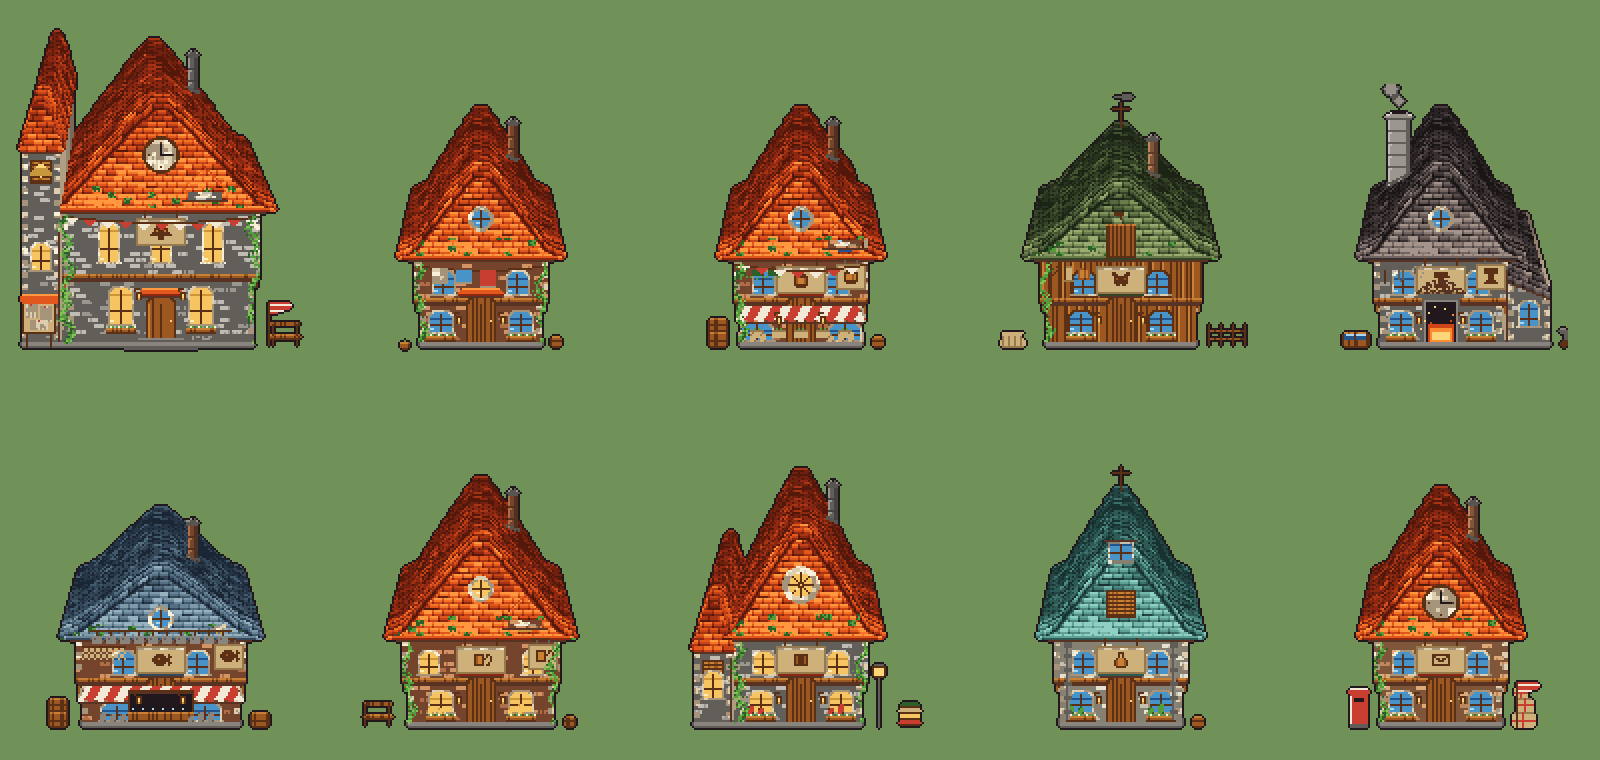
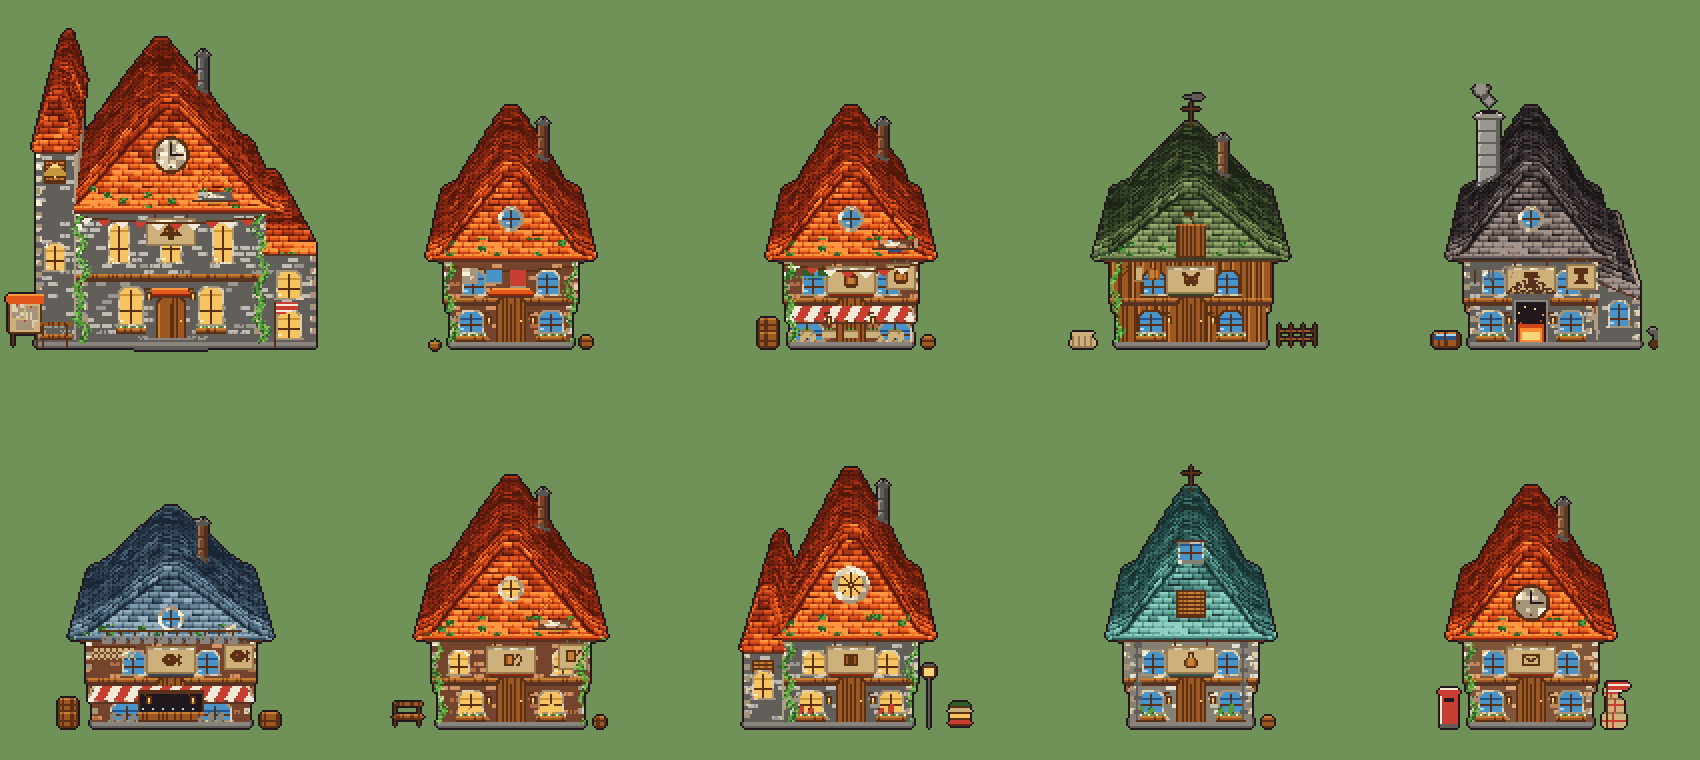
회관 오른쪽에도 한 칸 — 붙인 게 아니라 이어진 것으로
「그냥 붙인 느낌」은 세 가지에서 온다. 셋 다 지웠다:

  ① 이음매의 어두운 줄   붙는 자리에 그늘을 그었더니 오히려 「여기가 경계다」를
                        가리켰다. 안 긋는다 — 벽이 그냥 이어진다
  ② 겹친 귀돌            wall() 이 양끝에 귀돌을 넣어서 이음매에 밝은 줄이
                        두 개 겹쳤다. 붙는 쪽은 생략한다 (skip 인자)
  ③ 안 맞는 지붕 켜      덧붙인 지붕의 켜를 제 기준으로 세면 기와 줄이 어긋난다.
                        **본채 처마 기준**으로 세니 줄이 그대로 이어진다

톤도 roofToneAt(y) 하나로 통일했다 — 높이만 넣으면 본채 지붕이 쓰는 사다리의
그 자리 톤이 나온다. 곁채·탑·이어 나온 칸 전부 이걸 쓴다.

캔버스는 178x168 (712x672). 오른쪽에 칸이 붙으면서 여유가 없어졌다.

diff --git a/game/assets/ref/make_buildings.js b/game/assets/ref/make_buildings.js
@@ -641,12 +641,15 @@ function bargeBoard(g, x0, x1, top, base) {
 
 
 // 벽 — 벽돌이면 크림색 귀돌로 각을 잡고, 회벽이면 하프팀버 목재를 두른다.
-function wall(g, x0, x1, y0, y1, plinth) {
+// skip: 'left' | 'right' — 다른 덩어리와 **붙는 쪽**은 귀돌을 안 넣는다.
+// 양쪽 다 넣으면 이음매에 밝은 줄이 두 개 겹쳐서, 벽이 이어진 게 아니라
+// 두 채가 맞닿은 것으로 보인다.
+function wall(g, x0, x1, y0, y1, plinth, skip) {
   g.rect(x0, y0, x1, y1, WB);
   if (WALL === 'brick') {
     for (let y = y0 + 1; y < y1 - 3; y += 6) {             // 귀돌
-      g.rect(x0, y, x0 + 2, y + 2, 'w');
-      g.rect(x1 - 2, y, x1, y + 2, 'w');
+      if (skip !== 'left') g.rect(x0, y, x0 + 2, y + 2, 'w');
+      if (skip !== 'right') g.rect(x1 - 2, y, x1, y + 2, 'w');
     }
   } else if (WALL === 'plank') {
     // 널판 — 세로로 널을 대고 이음매마다 어두운 줄. 헛간의 벽이다
@@ -1206,6 +1209,13 @@ function noticeboard(g, x, y) {
 //
 // 그리고 본채는 옆에 붙은 것 위로 **그림자를 드리운다.** 낮은 곁채 지붕이
 // 높은 본채 옆에서 그늘 없이 밝으면, 두 채가 그냥 나란히 서 있어 보인다.
+// 본채 지붕이 쓰는 자 — 높이만 넣으면 그 자리의 톤이 나온다.
+// 덧붙인 지붕은 전부 이걸 써야 이어지는 자리에서 색이 안 끊긴다.
+function roofToneAt(y) {
+  const t = FRONT_SHARE * (EAVE - y) / Math.max(1, EAVE - RIDGE);
+  return Math.max(0, Math.min(1, t));
+}
+
 function markRoof(x, y, t, base) {
   if (y < 0 || y >= GH || x < 0 || x >= GW) return;
   roofT[y][x] = t;
@@ -1230,7 +1240,7 @@ function dormer(g, cx, base) {
 // 대장간처럼 「작업하는 집」은 이 덩어리 하나로 성격이 정해진다
 function leanTo(g, xa, xb, top) {
   const inner = xa < CX ? xb : xa;                         // 본채에 붙는 쪽
-  wall(g, xa, xb, top + 7, GROUND, true);
+  wall(g, xa, xb, top + 7, GROUND, true, xa < CX ? 'right' : 'left');
   for (let x = xa; x <= xb; x++) {
     const t = Math.abs(x - inner) / Math.max(1, xb - xa);
     const y = top + Math.round(t * 8);
@@ -1238,11 +1248,11 @@ function leanTo(g, xa, xb, top) {
     const shade = Math.max(0, 0.30 - Math.abs(x - inner) * 0.035);
     for (let k = 0; k < 6; k++) {
       g.px(x, y + k, 'r');
-      markRoof(x, y + k, 0.46 - k * 0.04 + shade, y + 5);
+      // 톤은 **본채 자**로 재고, 켜도 본채 처마 기준으로 세어 줄이 이어진다
+      markRoof(x, y + k, Math.min(1, roofToneAt(y + k) + shade), EAVE);
     }
     g.px(x, y + 6, SHADE);
   }
-  g.vline(inner + (xa < CX ? 1 : -1), top, GROUND - 3, SHADE);   // 본채와의 이음매
   archWin(g, Math.round((xa + xb) / 2) - 5, top + 15, 11, 14, false);
 }
 
@@ -1255,7 +1265,7 @@ function tower(g, cx, wallTop, hgt, withBell) {
   const a = cx - 9, b = cx + 9, CONE = 24;
   const H = hgt || 28;                                     // 벽 위로 솟는 높이
   const shaftTop = wallTop - (H - CONE), rt = shaftTop - CONE;
-  wall(g, a, b, shaftTop, GROUND, true);
+  wall(g, a, b, shaftTop, GROUND, true, cx < CX ? 'right' : 'left');
   for (let i = 0; i <= CONE; i++) {
     const w = Math.round(2 + 9 * Math.pow(i / CONE, 0.9));
     for (let x = cx - w; x <= cx + w; x++) {
@@ -1269,7 +1279,28 @@ function tower(g, cx, wallTop, hgt, withBell) {
   louver(g, cx, ly, 11, 11);
   if (withBell) bell(g, cx, ly + 3);
   archWin(g, cx - 5, wallTop + 6, 11, 15, false);
-  g.vline(cx + (cx < CX ? 9 : -9), wallTop, GROUND - 3, SHADE);  // 본채와의 이음매
+}
+
+// 이어 나온 한 칸 (wing) — 곁채와 달리 **본채의 일부처럼** 보여야 한다.
+//
+// 「붙인 느낌」은 세 가지에서 온다: 이음매의 어두운 줄, 겹친 귀돌,
+// 그리고 지붕 켜가 안 맞는 것. 셋을 다 지운다 —
+//   * 이음매 줄을 안 긋는다 (벽이 그냥 이어진다)
+//   * 붙는 쪽 귀돌을 생략한다
+//   * 지붕 켜를 **본채 처마 기준**으로 세어 기와 줄이 그대로 이어진다
+function wing(g, xa, xb, eaveY) {
+  const rightSide = xa > CX;
+  wall(g, xa, xb, eaveY + 6, GROUND, true, rightSide ? 'left' : 'right');
+  for (let x = xa; x <= xb; x++) {
+    for (let k = 0; k < 6; k++) {
+      g.px(x, eaveY + k, 'r');
+      markRoof(x, eaveY + k, roofToneAt(eaveY + k), EAVE);
+    }
+    g.px(x, eaveY + 6, SHADE);                             // 처마 밑 그늘
+  }
+  const mx = Math.round((xa + xb) / 2);
+  archWin(g, mx - 6, eaveY + 14, 13, 15, false);
+  archWin(g, mx - 6, eaveY + 34, 13, 15, false);
 }
 
 // 풍향계 — 용마루 위에 꽂는 것. 한 줄짜리지만 하늘로 삐죽 나와서
@@ -1515,6 +1546,12 @@ function build(spec) {
     tower(g, c, EAVE + 10, spec.towerH, spec.bell);
     footL = Math.min(footL, c - 9); footR = Math.max(footR, c + 9);
   }
+  if (spec.wing) {
+    const r = spec.wing === 'right';
+    const a = r ? X1 + JUT - 1 : X0 - JUT - 25, b = r ? X1 + JUT + 25 : X0 - JUT + 1;
+    wing(g, a, b, EAVE + 16);
+    footL = Math.min(footL, a); footR = Math.max(footR, b);
+  }
   if (spec.stall) stall(g, CX - 16, CX + 16, GROUND);
   if (spec.steps) steps(g, CX, 22, GROUND);
   // 옆으로 늘어난 만큼 **주춧돌을 하나로 잇는다.** 덩어리마다 따로 두면
@@ -1664,11 +1701,11 @@ const KINDS = {
   // 회관만 **그림판이 크다** (164x168 -> 656x672). 같은 판에서 폭만 늘렸더니
   // 왼쪽 종탑과 오른쪽 깃발이 캔버스 밖으로 잘렸다 — 회관은 옆에 붙는 게
   // 많아서 판부터 키워야 한다. 층높이도 열두 칸 올려 창까지 같이 커진다.
-  chief_house: { canvas: [164, 168], w: 16, storey: 12,
+  chief_house: { canvas: [178, 168], w: 14, storey: 12,
     sign: true, icon: 'bell', pitch: 10, win3: true,
     gable: 'clock', tower: 'left', towerH: 64, bell: true, steps: true, bunting: true,
-    flag: true, dormer: true, lit: true, wallPal: 'stone', ivy: 2,
-    props: [['notice', -20], ['bench', 6]] },
+    wing: 'right', flag: true, dormer: true, lit: true, wallPal: 'stone', ivy: 2,
+    props: [['notice', -34], ['bench', -18]] },   // 의자는 종탑 밑에 — 깃발과 안 겹치게
 };
 
 let n = 0;
